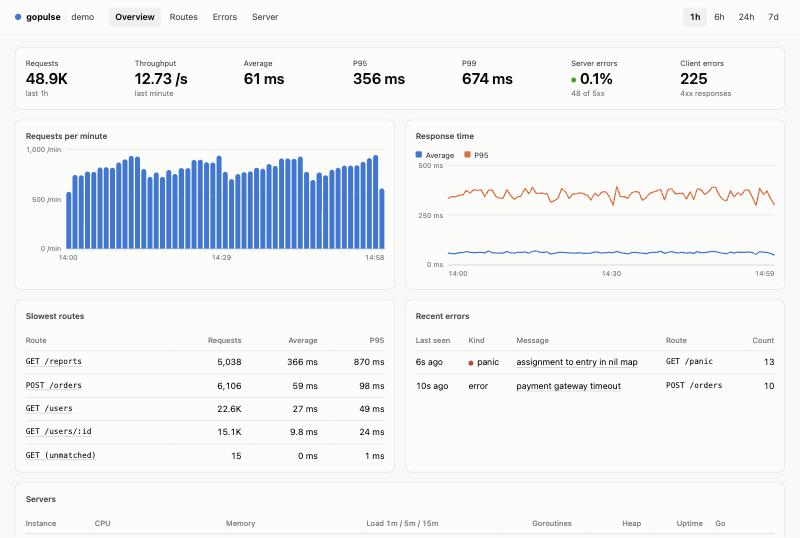
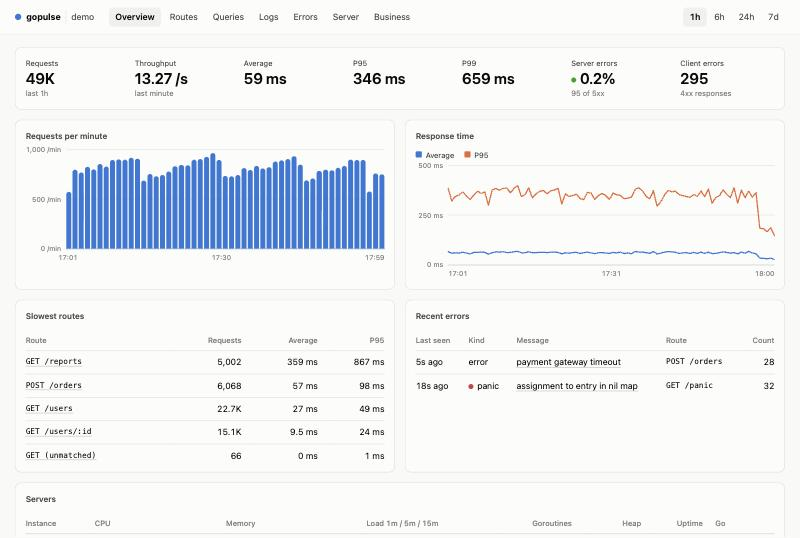
Add a custom page to the demo and refresh the README screenshots

diff --git a/examples/gin/main.go b/examples/gin/main.go
@@ -27,9 +27,44 @@ func main() {
 		Username:    "admin",
 		Password:    "secret",
 		Store:       store,
-		SlowRequest: 300 * time.Millisecond,
+		SlowRequest: 200 * time.Millisecond,
 	})
 	defer p.Close()
+
+	p.AddPage("Business",
+		pulse.Card{Title: "Orders", Render: func(ctx context.Context, v pulse.View) (pulse.Widget, error) {
+			orders, err := p.Total(ctx, "orders.amount", v.From, v.To)
+			if err != nil {
+				return nil, err
+			}
+			return pulse.Stats{
+				{Label: "Orders", Value: pulse.FormatCount(float64(orders.Count)), Hint: "last " + v.Period},
+				{Label: "Revenue", Value: "$" + pulse.FormatCount(orders.Sum)},
+				{Label: "Average order", Value: "$" + pulse.FormatCount(orders.Avg())},
+			}, nil
+		}},
+		pulse.Card{Title: "Revenue per interval", Width: pulse.Half, Render: func(ctx context.Context, v pulse.View) (pulse.Widget, error) {
+			series, err := p.Series(ctx, "orders.amount", "created", v.From, v.To, 60)
+			if err != nil {
+				return nil, err
+			}
+			line := pulse.Line{Name: "Revenue"}
+			for _, pt := range series.Points {
+				line.Points = append(line.Points, pulse.Point{T: pt.Time, V: pt.Sum})
+			}
+			return pulse.TimeSeries{Lines: []pulse.Line{line}, Unit: "USD", Bars: true}, nil
+		}},
+		pulse.Card{Title: "Queues", Width: pulse.Half, Render: func(context.Context, pulse.View) (pulse.Widget, error) {
+			return pulse.Table{
+				Columns: []string{"Queue", "Waiting", "Capacity used"},
+				Rows: [][]any{
+					{"emails", pulse.Num("12"), pulse.Cell{Text: "24%", Meter: pulse.Percent(24)}},
+					{"exports", pulse.Num("3"), pulse.Cell{Text: "81%", Meter: pulse.Percent(81)}},
+					{"webhooks", pulse.Num("0"), pulse.Cell{Text: "2%", Meter: pulse.Percent(2)}},
+				},
+			}, nil
+		}},
+	)
 
 	logger := slog.New(p.SlogHandler(slog.NewTextHandler(io.Discard, nil)))
 	// query stands in for a database call; a real application attaches
@@ -171,6 +206,9 @@ func seed(store pulse.Store) {
 				a.Hist[bucketOf(v)]++
 			}
 			add(pulse.MetricQuery, name, t, a)
+		}
+		for range int(14 * wave) {
+			add("orders.amount", "created", t, pulse.Agg{Count: 1, Sum: float64(10 + rand.IntN(90))})
 		}
 		if rand.IntN(4) == 0 {
 			add(pulse.MetricHTTP4xx, "GET /users/:id", t, pulse.Agg{Count: 2, Sum: 2})

diff --git a/README.md b/README.md
@@ -7,7 +7,8 @@
 
 A monitoring dashboard that lives inside your Go web service, in the spirit of
 Laravel Pulse. Add one middleware and get a password-protected page showing
-request rates, response times per route, errors, panics and server capacity.
+request rates, response times per route, SQL query statistics, recent logs,
+errors, panics and server capacity.
 No agent, no separate service, no JavaScript build.
 
 ![Overview page](docs/screenshots/overview.jpg)
@@ -25,9 +26,13 @@ No agent, no separate service, no JavaScript build.
 - **Safe on the hot path** — events go through a bounded queue and are aggregated in the background. If the queue is full, events are dropped and counted; requests never wait.
 - **Light and dark** — follows the browser setting.
 
-| Routes | Server (dark) |
+| SQL queries | Logs |
 |---|---|
-| ![Routes page](docs/screenshots/routes.jpg) | ![Server page](docs/screenshots/server-dark.jpg) |
+| ![Queries page](docs/screenshots/queries.jpg) | ![Logs page](docs/screenshots/logs.jpg) |
+
+| Your own page | Server (dark mode) |
+|---|---|
+| ![Custom page](docs/screenshots/custom-page.jpg) | ![Server page](docs/screenshots/server-dark.jpg) |
 
 ## Status
 
@@ -107,7 +112,8 @@ go run github.com/nicklasos/gopulse/examples/gin@latest
 ```
 
 Then open `http://localhost:8099/_pulse` (login `admin`, password `secret`).
-The demo generates its own traffic, errors and panics.
+The demo generates its own traffic, queries, logs, errors and panics, and has a
+custom "Business" page; its source is in [examples/gin](examples/gin/main.go).
 
 ## SQL queries (pgx v5)
 
